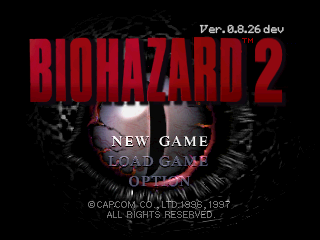
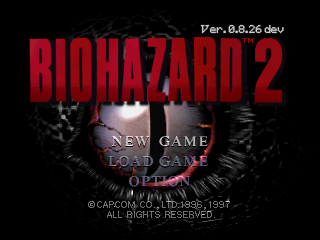
wip(r39-titelversion): messen.py (Messung 1.1/1.2 reproduzierbar), Tintenkanten e/. auf den 1/25-px-Raster der Anpassung (e .84, . .32), Endabzug
Phase je Glyphe aus tools/r39_titelversion/messen.py (25 Phasen, Bit-Abstieg): V 198,80 e 207,84 r 214,60 . 221,32
0 233,60 1 264,00 2 226,84 5 277,60. Layout der alten Zeile unveraendert (hoechstens 1 Spalte neben dem Original).
Endabzug AF 600: ausserhalb des Menues nur x198..283 y11..33 anders (981 Pixel), gegen rohes TITLEU.TIM ausserhalb
Kasten + Menue 0. ctest -R "r39_titelversion|r30_titel|boot_bg_pin|dark_start_pin": 100% tests passed, 0 tests failed out of 14

Changed region(s): [[0.625, 0.0875, 0.8438, 0.1458], [0.5, 0.5542, 0.6562, 0.6125], [0.3438, 0.5542, 0.4688, 0.6125]]

diff --git a/re15_port/tools/r39_titelversion/messen.py b/re15_port/tools/r39_titelversion/messen.py
@@ -1,0 +1,163 @@
+#!/usr/bin/env python3
+# -*- coding: utf-8 -*-
+"""
+Runde 39 Spur T "titelversion" - Messung der alten Beschriftung in DATA/TITLEU.TIM (Dossier
+analysis/befunde_runde39/T_titelversion.md, Abschnitte 1.1 und 1.2). Liest nur, schreibt nichts.
+
+  1.1  8-zusammenhaengende Komponenten der Nicht-Schwarz-Pixel im Kasten x188..295 y4..35, Maske (graue Komponenten
+       mit Maximum >= 20), Werte, Ring um die Maske, Rand des Kastens
+  1.2  Pixelschrift: Bitmuster und Phase je Glyphe der Zeile "Ver.2025.01.25" per Bit-Abstieg gegen das Flaechenmodell
+       (Raster 28/25 px, Quadrat 38/25 px, oberste Schrift-Zeile 622/25 px, Wert = round(25 x Deckung))
+
+Aufruf (aus dem Repo): python re15_port/tools/r39_titelversion/messen.py [--ohne-anpassung]
+"""
+import collections
+import os
+import struct
+import sys
+
+HIER = os.path.dirname(os.path.abspath(__file__))
+TIM = os.path.normpath(os.path.join(HIER, '..', '..', 'shared_assets', 'PSX', 'DATA', 'TITLEU.TIM'))
+W, H = 320, 240
+X0, X1, Y0, Y1 = 188, 295, 4, 35
+S, RASTER, QUADRAT, OBEN = 25, 28, 38, 622
+
+
+def laden():
+    d = open(TIM, 'rb').read()
+    assert struct.unpack_from('<II', d, 0) == (0x10, 2) and struct.unpack_from('<HH', d, 0x10) == (W, H)
+    return struct.unpack_from('<%dH' % (W * H), d, 0x14)
+
+
+def kanaele(c):
+    return c & 31, (c >> 5) & 31, (c >> 10) & 31
+
+
+def teil_maske(px):
+    print('== 1.1 Komponenten im Kasten x%d..%d y%d..%d ==' % (X0, X1, Y0, Y1))
+    rand = sum(1 for y in range(Y0, Y1 + 1) for x in range(X0, X1 + 1)
+               if (x in (X0, X1) or y in (Y0, Y1)) and px[y * W + x] & 0x7fff)
+    print('Nicht-Schwarz-Pixel auf dem Kastenrand:', rand)
+    gesehen = set()
+    maske = set()
+    for y in range(Y0, Y1 + 1):
+        for x in range(X0, X1 + 1):
+            if (x, y) in gesehen or not px[y * W + x] & 0x7fff:
+                continue
+            stapel, teil = [(x, y)], []
+            gesehen.add((x, y))
+            while stapel:
+                a, b = stapel.pop()
+                teil.append((a, b))
+                for dx in (-1, 0, 1):
+                    for dy in (-1, 0, 1):
+                        n = (a + dx, b + dy)
+                        if X0 <= n[0] <= X1 and Y0 <= n[1] <= Y1 and n not in gesehen and px[n[1] * W + n[0]] & 0x7fff:
+                            gesehen.add(n)
+                            stapel.append(n)
+            werte = [kanaele(px[b * W + a]) for a, b in teil]
+            grau = all(r == g == bl for r, g, bl in werte)
+            mx = max(max(v) for v in werte)
+            xs = [a for a, _ in teil]
+            ys = [b for _, b in teil]
+            behalten = grau and mx >= 20
+            print('  bbox x%d..%d y%d..%d  %4d Pixel  grau=%d  max=%2d  -> %s' % (
+                min(xs), max(xs), min(ys), max(ys), len(teil), grau, mx, 'MASKE' if behalten else 'bleibt'))
+            if behalten:
+                maske.update(teil)
+    xs = [a for a, _ in maske]
+    ys = [b for _, b in maske]
+    print('Maske: %d Pixel, bbox x%d..%d y%d..%d, Zeile y<=23: %d, y>=24: %d' % (
+        len(maske), min(xs), max(xs), min(ys), max(ys), sum(1 for _, b in maske if b <= 23),
+        sum(1 for _, b in maske if b >= 24)))
+    print('Werte:', sorted(collections.Counter(kanaele(px[b * W + a])[0] for a, b in maske).items()))
+    print('STP:', dict(collections.Counter(px[b * W + a] >> 15 for a, b in maske)))
+    ring = {}
+    for a, b in maske:
+        for dx in (-1, 0, 1):
+            for dy in (-1, 0, 1):
+                n = (a + dx, b + dy)
+                if n not in maske:
+                    ring[n] = px[n[1] * W + n[0]]
+    print('Ring (8-Nachbarn ausserhalb der Maske): %d Pixel, Werte %s' % (
+        len(ring), dict(collections.Counter('0x%04X' % v for v in ring.values()))))
+
+
+def modell(bm, phase, x0, breite):
+    """Werte der Bildspalten x0..x0+breite-1, Zeilen 24..33; Tinte links bei x0 + phase/25 (Teilzeilen-Raster)."""
+    out = []
+    for r in range(24, 34):
+        zaehl = [0] * breite
+        for sy in range(S):
+            y = r * S + sy
+            belegt = [0] * (breite * S)
+            for j, z in enumerate(bm):
+                if OBEN + j * RASTER <= y < OBEN + j * RASTER + QUADRAT:
+                    for i, ch in enumerate(z):
+                        if ch == '#':
+                            for x in range(max(0, phase + i * RASTER), min(breite * S, phase + i * RASTER + QUADRAT)):
+                                belegt[x] = 1
+            for c in range(breite):
+                zaehl[c] += sum(belegt[c * S:(c + 1) * S])
+        out.append([(n * 25 + 312) // 625 for n in zaehl])
+    return out
+
+
+def sse(bm, phase, x0, breite, ist):
+    m = modell([''.join(z) for z in bm], phase, x0, breite)
+    return (sum((m[r][c] - ist[r][c]) ** 2 for r in range(10) for c in range(breite)),
+            max(abs(m[r][c] - ist[r][c]) for r in range(10) for c in range(breite)))
+
+
+def teil_anpassung(px):
+    print('== 1.2 Bitmuster + Phase je Glyphe (Bit-Abstieg gegen das Flaechenmodell) ==')
+    faelle = [('0', 233, 5), ('0', 257, 5), ('2', 226, 5), ('2', 240, 5), ('5', 247, 5), ('5', 277, 5),
+              ('V', 198, 7), ('e', 207, 5), ('r', 214, 5), ('1', 264, 2), ('.', 221, 2), ('.', 253, 2)]
+    for ch, x0, nb in faelle:
+        breite = {7: 10, 5: 7, 2: 3}[nb] if ch != '.' else 4
+        cols = range(x0, x0 + breite)
+        ist = [[kanaele(px[r * W + x])[0] for x in cols] for r in range(24, 34)]
+        if ch == 'V':                       # Spalte 207 ab Zeile 27 gehoert zum "e"
+            for r in range(27 - 24, 10):
+                ist[r][9] = 0
+        if ch == 'e':                       # Spalte 207 bis Zeile 26 gehoert zum "V"
+            for r in range(0, 3):
+                ist[r][0] = 0
+        def start(phase):
+            return [['#' if ist[min(9, int((OBEN + j * RASTER + 19) / S) - 24)][min(breite - 1, int((phase + i * RASTER + 19) / S))] >= 15
+                     else '.' for i in range(nb)] for j in range(7)]
+        # jede der 25 Phasen (Tintenkante links auf dem 1/25-px-Raster): Startmuster, dann Bit-Abstieg
+        vor = [(0, ph) for ph in range(25)]
+        bester = None
+        for _, phase in vor:
+            bm = start(phase)
+            fehler = sse(bm, phase, x0, breite, ist)[0]
+            besser = True
+            while besser:
+                besser = False
+                for j in range(7):
+                    for i in range(nb):
+                        bm[j][i] = '.' if bm[j][i] == '#' else '#'
+                        e = sse(bm, phase, x0, breite, ist)[0]
+                        if e < fehler:
+                            fehler = e
+                            besser = True
+                        else:
+                            bm[j][i] = '.' if bm[j][i] == '#' else '#'
+            e, mx = sse(bm, phase, x0, breite, ist)
+            if bester is None or e < bester[0]:
+                bester = (e, mx, phase, [''.join(z) for z in bm])
+        e, mx, phase, bm = bester
+        print('  %s (x%d)  Tinte links %d,%02d  SSE %3d  max %d  %s' % (ch, x0, x0 + phase // 25, (phase % 25) * 4, e, mx, ' '.join(bm)))
+
+
+def main():
+    px = laden()
+    teil_maske(px)
+    if '--ohne-anpassung' not in sys.argv:
+        teil_anpassung(px)
+    return 0
+
+
+if __name__ == '__main__':
+    sys.exit(main())

diff --git a/re15_port/tools/r39_titelversion/glyphen_bauen.py b/re15_port/tools/r39_titelversion/glyphen_bauen.py
@@ -61,13 +61,14 @@ def muster(zeilen):
 # --- Ausgeschnittene Glyphen ------------------------------------------------------------------------------------------
 # (Zeichen, erste Spalte, letzte Spalte, Tintenkante links in 1/25 px relativ zur ersten Spalte, Bitmuster-Breite,
 #  {Spalte: Bildzeilen, die zum NACHBARN gehoeren}, Herkunftstext)
-# Tintenkante: Modell-Anpassung (Dossier 1.2, Phase in 0,04-px-Stufen); Tintenbreite = (n-1)*1,12 + 1,52 px.
+# Tintenkante: Modell-Anpassung tools/r39_titelversion/messen.py (Dossier 1.2, Phase auf dem 1/25-px-Raster);
+# Tintenbreite = (n-1)*1,12 + 1,52 px.
 AUSSCHNITT = [
     ('V', 198, 207, 20, 7, {207: range(27, 34)},
      'V aus "Ver." x198..207 (Spalte 207 nur Zeilen 24..26; 27..33 = linke Kante des "e")'),
-    ('e', 207, 213, 20, 5, {207: range(24, 27)}, 'e aus "Ver." x207..213 (Spalte 207 nur Zeilen 27..33)'),
+    ('e', 207, 213, 21, 5, {207: range(24, 27)}, 'e aus "Ver." x207..213 (Spalte 207 nur Zeilen 27..33)'),
     ('r', 214, 220, 15, 5, {}, 'r aus "Ver." x214..220'),
-    ('.', 221, 223, 12, 2, {}, '. aus "Ver." x221..223 (gleiche Werte wie der Punkt bei x267..269)'),
+    ('.', 221, 223, 8, 2, {}, '. aus "Ver." x221..223 (gleiche Werte wie der Punkt bei x267..269)'),
     ('0', 233, 239, 15, 5, {}, '0 aus "2025" x233..239'),
     ('1', 264, 266, 0, 2, {}, '1 aus ".01." x264..266'),
     ('2', 226, 232, 21, 5, {}, '2 aus "2025" x226..232 (bitgleich mit der "2" bei x270..276)'),

diff --git a/re15_port/tests/unit/test_r39_titelversion.c b/re15_port/tests/unit/test_r39_titelversion.c
@@ -87,12 +87,13 @@ static int modell(const char *const *bm, int zeilen, int phase25, int c, int r)
 }
 
 typedef struct { char ch; int x0; int phase25; const char *bm[7]; } quelle_t;
-/* Ausschnitte: Stelle in TITLEU.TIM (erste Kachelspalte) und angepasstes Bitmuster/Phase (Dossier 1.2) */
+/* Ausschnitte: Stelle in TITLEU.TIM (erste Kachelspalte) und angepasstes Bitmuster/Phase (Dossier 1.2,
+ * tools/r39_titelversion/messen.py) */
 static const quelle_t k_aus[] = {
     { 'V', 198, 20, { "###.###", ".#...#.", ".#...#.", ".#..#..", ".#.#...", ".##....", ".#....." } },
-    { 'e', 207, 20, { ".....", ".....", ".###.", "#...#", "#####", "#....", ".####" } },
+    { 'e', 207, 21, { ".....", ".....", ".###.", "#...#", "#####", "#....", ".####" } },
     { 'r', 214, 15, { ".....", ".....", "#.##.", "##..#", "#....", "#....", "#...." } },
-    { '.', 221, 12, { "..", "..", "..", "..", "..", "##", "##" } },
+    { '.', 221,  8, { "..", "..", "..", "..", "..", "##", "##" } },
     { '0', 233, 15, { ".###.", "#...#", "#..##", "#.#.#", "##..#", "#...#", ".###." } },
     { '1', 264,  0, { ".#", "##", ".#", ".#", ".#", ".#", ".#" } },
     { '2', 226, 21, { ".###.", "#...#", "....#", "...#.", "..#..", ".#...", "#####" } },

diff --git a/analysis/befunde_runde39/T_titelversion.md b/analysis/befunde_runde39/T_titelversion.md
@@ -16,7 +16,7 @@ Anzeige: `platform/pc/src/render_pc.c` `re15_render_pc_show_title` (einmalige Um
 Alpha immer 0xFF -> das STP-Bit spielt fuer das Titelbild keine Rolle). Android uebersetzt dieselbe Datei
 (`platform/android/jni/CMakeLists.txt`: libmain = platform/pc/main.c + platform/pc/src/*.c + engine).
 
-Werkzeug: Python-Auswertung der Rohpixel (Skripte im Spur-Werkzeug `re15_port/tools/r39_titelversion/`).
+Werkzeug: `python re15_port/tools/r39_titelversion/messen.py` (liest nur; gibt 1.1 und 1.2 genau so aus, ~30 s).
 Suchkasten x 188..295, y 4..35 (Rand ist komplett schwarz, 0 Nicht-Schwarz-Pixel auf dem Rand gemessen).
 8-zusammenhaengende Komponenten der Nicht-Schwarz-Pixel im Kasten:
 
@@ -53,21 +53,24 @@ Belege (aus den Rohwerten, Spalten/Zeilen-Profile):
 - Tintenbreite der Ziffern 6,00 px = 5 x 1,12 + 0,40; Hoehe 8,24 = 7 x 1,12 + 0,40; Ziffern-Vorschub 6,72..6,76 px = 6 Raster.
 - Gleiche Glyphe, gleiche Phase -> bitgleich: "2" bei x226 und x270 (Abstand 44 px) sind identisch; "0"(x233) und "5"(x277)
   haben dieselbe Phase (Tintenkante links bei .60).
-Modell-Anpassung (Bitmuster je Glyphe per Bit-Abstieg, Phase in 0,04-px-Schritten, Raster 28/25 px, Quadrat 38/25 px):
+Modell-Anpassung (`messen.py`: je Glyphe fuer jede der 25 Phasen auf dem 1/25-px-Raster ein Startmuster aus den
+Rasterzellen-Mitten, dann Bit-Abstieg gegen das Flaechenmodell; Raster 28/25 px, Quadrat 38/25 px, oben 622/25 px;
+Nachbarspalten, die zur Nachbar-Glyphe gehoeren, ausgeblendet):
 
-| Glyphe (Stelle) | Phase (Tinte links) | Bitmuster 5x7 (Zeile 0..6) | SSE | max. Abweichung |
+| Glyphe (Stelle) | Phase (Tinte links) | Bitmuster (Zeile 0..6) | SSE | max. Abweichung |
 |---|---|---|---|---|
 | 0 (x233) | 233,60 | .###. #...# #..## #.#.# ##..# #...# .###. | 135 | 5 |
 | 0 (x257) | 257,36 | dasselbe | 136 | 4 |
-| 2 (x226/x270) | 226,84 | .###. #...# ....# ...#. ..#.. .#... ##### | 146 | 4 |
+| 2 (x226) | 226,84 | .###. #...# ....# ...#. ..#.. .#... ##### | 146 | 4 |
 | 2 (x240) | 240,36 | dasselbe | 162 | 5 |
-| 5 (x247) | 247,09 | ##### #.... ####. #...# ....# #...# .###. | 132 | 4 |
-| 5 (x277) | 277,56 | dasselbe | 102 | 4 |
-| V (x198) | 198,80 | ###.### .#...#. .#...#. .#..#.. .#.#... .##.... .#..... (7 breit) | 185 | 5 |
-| e (x207) | 207,80 | ..... ..... .###. #...# ##### #.... .#### | 85 | 4 |
+| 5 (x247) | 247,08 | ##### #.... ####. #...# ....# #...# .###. | 132 | 4 |
+| 5 (x277) | 277,60 | dasselbe | 96 | 5 |
+| V (x198) | 198,80 | ###.### .#...#. .#...#. .#..#.. .#.#... .##.... .#..... (7 breit) | 157 | 5 |
+| e (x207) | 207,84 | ..... ..... .###. #...# ##### #.... .#### | 100 | 4 |
 | r (x214) | 214,60 | ..... ..... #.##. ##..# #.... #.... #.... | 77 | 4 |
-| 1 (x264) | 264,01 | .# ## .# .# .# .# .# (2 breit) | 73 | 7 |
-| . (x221 / x253) | 221,46 / 253,80 | 2x2 in Zeile 5..6 | 63 / 58 | 5 / 3 |
+| 1 (x264) | 264,00 | .# ## .# .# .# .# .# (2 breit) | 73 | 7 |
+| . (x221) | 221,32 | 2x2 in Zeile 5..6 | 62 | 4 |
+| . (x253) | 253,80 | dasselbe | 58 | 3 |
 
 (je Glyphe ~70 Pixel; SSE in 5-bit-Stufen^2). Das Modell trifft die Originalwerte bis auf die aeusseren Ecken
 (dort +-3..5 Stufen: das Original rundet die Ecken etwas weicher). "0" und "2" sind bitgleich mit der bekannten
@@ -135,7 +138,7 @@ Asset-Patch, keine neue Datei im Paket. docker_win_build.sh / docker_linux_build
 | `RE15_R39T_ABSTAND25` | 18 (0,72 px) | 1 Raster - 0,40; gemessen 0,65..0,92 zwischen den Zeichen der Zeile |
 | `RE15_R39T_WORT25` | 69 (2,74 px) | Tinte "." (Ver.) bis 224,10, "2" ab 226,84 |
 | Schriftfarbe | 25 (5 bit), STP 0 | Kerne 25 (`0x6739`), alle 929 Maskenpixel STP 0 |
-| Kachel-Tintenkanten | je Glyphe im .inc | Phase aus der Modell-Anpassung 1.2 (0,04-px-Stufen) |
+| Kachel-Tintenkanten | je Glyphe im .inc | Phase aus der Modell-Anpassung 1.2 (`messen.py`, 1/25-px-Raster): V .80, e .84, r .60, . .32, 0 .60, 1 .00, 2 .84, 5 .60 |
 
 ### 3.3 Glyphen
 | Zeichen | Quelle | Kachel |
@@ -145,7 +148,7 @@ Asset-Patch, keine neue Datei im Paket. docker_win_build.sh / docker_linux_build
 
 Gegenprobe des reinen Flaechenmodells an den Lern-Glyphen: 0(x233) SSE 135 max 5, 5(x277) SSE 96 max 5, r(x214) SSE 77
 max 4. Eigenes Modell im Riegel (unabhaengig vom Generator): Ausschnitte weichen hoechstens 4..7 Stufen ab (V 5, e 4, r 4,
-. 5, 0 5, 1 7, 2 4, 5 5), die ergaenzten 0..5 (3 5, 4 0, 6 5, 7 0, 8 5, 9 3, d 5, v 0) - also nicht mehr als die
+. 4, 0 5, 1 7, 2 4, 5 5), die ergaenzten 0..5 (3 5, 4 0, 6 5, 7 0, 8 5, 9 3, d 5, v 0) - also nicht mehr als die
 Ausschnitte. Vorschau aller Ziffern + "dev": `T_belege/glyphen_vorschau.png` (oben das Original).
 
 ### 3.4 Layout und Zeichnen
@@ -157,12 +160,12 @@ Zeichnen: Deckung v/25 als Alpha in Schriftfarbe 25 ueber das Bild (auf 0x8000 g
 Anzeige: "v0.8.27" -> "Ver.0.8.27"; alles hinter X.Y.Z (" dev", "-5-gabc" aus `git describe --always`) -> " dev"; ohne
 Ziffern "Ver.dev". Passt die Zeile nicht rechts von x188, wird nur entfernt ("NICHT GEZEICHNET" im Protokoll).
 Protokoll (debug.log, einmal je Prozess): `[titel_r39] alte Beschriftung entfernt: 929 Pixel; neu "Ver.0.8.26 dev"
-(RE15_VERSION "v0.8.26 dev") Spalten 199..283`.
+(RE15_VERSION "v0.8.26 dev") Spalten 200..283`.
 
 ## 4. Messung nachher
 | Lauf | Ergebnis |
 |---|---|
-| lokaler Bau (ohne Angabe), AF 150 | debug.log `neu "Ver.0.8.26 dev" (RE15_VERSION "v0.8.26 dev") Spalten 199..283`; Abzug vorher/nachher unterscheidet sich NUR in x198..283 y11..33 (955 Pixel). `T_belege/titel_nachher_v0.8.26_dev.png` / `_zoom.png` |
+| lokaler Bau (ohne Angabe), Endstand, AF 600 | debug.log `neu "Ver.0.8.26 dev" (RE15_VERSION "v0.8.26 dev") Spalten 200..283`; Abzug vorher (AF 150) / nachher ausserhalb des (pulsierenden) Menues NUR in x198..283 y11..33 verschieden (981 Pixel); nachher gegen rohes TITLEU.TIM ausserhalb Kasten + Menue: 0. `T_belege/titel_nachher_v0.8.26_dev.png` / `_zoom.png` (erster Stand vor der Phasen-Angleichung e/.: Spalten 199..283, 955 Pixel bei AF 150) |
 | `-DRE15_VERSION=v9.9.9` (eigener Bau `re15_port/build_v999`; in PowerShell das Argument in Anfuehrungszeichen - ohne trennt PowerShell 5.1 bei "." und CMake sah "v9") | Configure `RE15_VERSION (Titelbild): 'v9.9.9' (CMake-Variable RE15_VERSION)`; debug.log `neu "Ver.9.9.9" (RE15_VERSION "v9.9.9") Spalten 229..283`; Abzug AF 600: ausserhalb Kasten + Menue 0 Abweichungen, Zeile "Sample": Maske schwarz, Rest 0 Abweichungen. `T_belege/titel_v9.9.9.png` / `_zoom.png` |
 | Linux-Container (Image `re15-linux-build:deb11` wie build_linux_deck.sh, Quellbaum als Kopie, `-e RE15_VERSION=v9.9.9` wie `container_lauf`, derselbe Configure wie docker_linux_build.sh:70-72) | `RE15_VERSION (Titelbild): 'v9.9.9' (Umgebung RE15_VERSION)`; Compile-Befehl titelversion_r39.c `-DRE15_VERSION=\"v9.9.9\"`; `strings re15_pc` -> `v9.9.9`; `ctest -R r39_titelversion` dort: 9 Unit-Riegel gruen (Linux-fest), Integration: Protokollzeile `neu "Ver.9.9.9" (RE15_VERSION "v9.9.9")` richtig, Bildvergleich dort nicht aussagekraeftig (Videotreiber offscreen + Mesa-GL, Bild 150 noch in der Einblende: 23325 Abweichungen, `T_belege/titel_linux_container_bild150.png`) -> wird dort seitdem wie in test_r30_titel_puls SICHTBAR uebersprungen (RE15_OHNE_GPU), die Protokoll-Pruefungen bleiben Pflicht |
 | Android | Abschnitt 4.1 |
